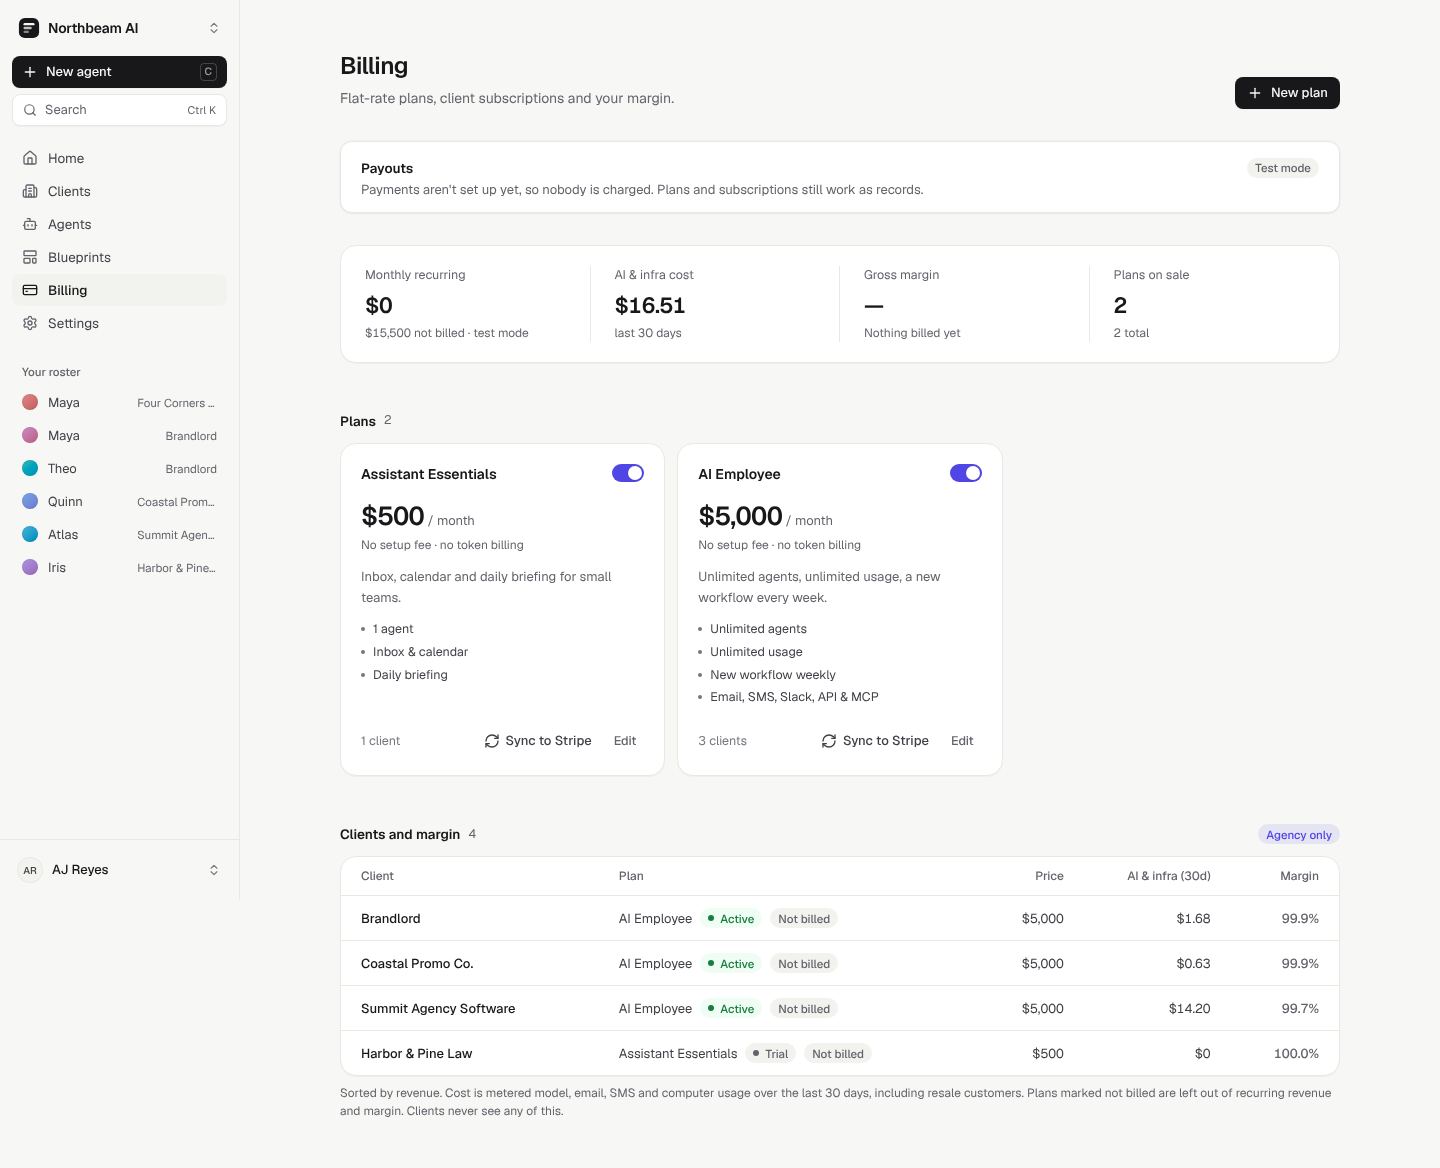
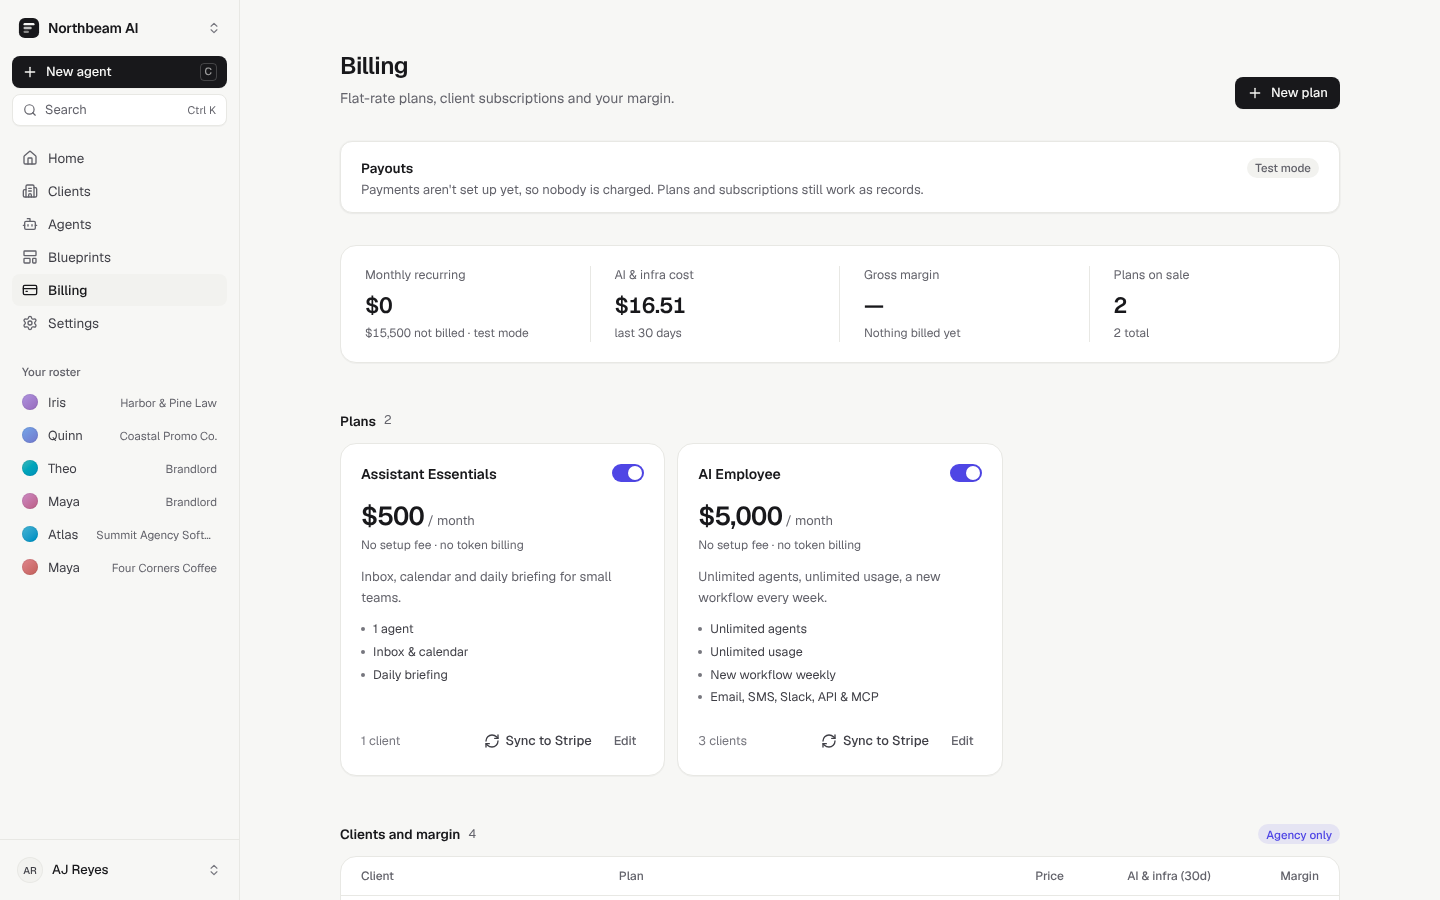
Studio round 4: invite emails really send; add workflow after hire; held first deliverable card with preview and Release now; stalled setup retry; billed-only MRR with paged margin table; mobile workflow rows; ⌘K finds approvals and deliverables
Claude-Session: https://claude.ai/code/session_01R829g3cx373VGQG4xJfwq5

diff --git a/src/app/p/[org]/requests/[id]/page.tsx b/src/app/p/[org]/requests/[id]/page.tsx
@@ -1,6 +1,7 @@
 import Link from "next/link";
 import { notFound } from "next/navigation";
 import { ArrowLeft } from "lucide-react";
+import { AgentOrb } from "@/components/ui/agent-orb";
 import { whenLabel } from "@/components/portal/deliverable-card";
 import { ChannelIcon } from "@/components/portal/icons";
 import { CHANNEL_LABEL } from "@/components/portal/lib";
@@ -30,6 +31,8 @@ export default async function RequestPage({
   const tz = p.org.timezone;
   const channel = CHANNEL_LABEL[r.channel] ?? r.channel;
   const replyHere = r.channel === "portal";
+  const first = r.messages[0];
+  const last = r.messages.at(-1);
   const note =
     r.channel === "email"
       ? `This conversation happened over email${r.who ? ` with ${r.who}` : ""}. Replies go through that inbox.`
@@ -40,55 +43,114 @@ export default async function RequestPage({
           : "This conversation came in through your connected tools.";
 
   return (
-    <div className="mx-auto w-full max-w-[1040px] *:max-w-[720px] px-4 pt-5 md:px-6 md:pt-8">
+    <div className="mx-auto w-full max-w-[1040px] px-4 pt-5 md:px-6 md:pt-8">
       <Link
         href={`/p/${slug}/requests`}
         className="-ml-2 inline-flex h-8 items-center gap-1.5 rounded-md px-2 text-[13px] text-ink-3 transition-colors hover:bg-surface-2 hover:text-ink"
       >
         <ArrowLeft className="size-4" aria-hidden /> Requests
       </Link>
-      <header className="mt-4 mb-8 animate-rise">
-        <h1 className="text-[24px] leading-tight font-semibold tracking-[-0.02em] text-ink text-balance md:text-[26px]">
-          {r.subject || `Conversation with ${r.agent.name}`}
-        </h1>
-        <p className="mt-2 flex flex-wrap items-center gap-1.5 text-[13px] text-ink-3">
-          <ChannelIcon channel={r.channel} className="text-ink-3" />
-          {channel}
-          <span aria-hidden className="text-ink-3">
-            ·
-          </span>
-          <Link
-            href={`/p/${slug}/team/${r.agent.id}`}
-            className="text-ink-2 hover:text-ink"
-          >
-            {r.agent.name}
-          </Link>
-          {r.who ? (
-            <>
+      <div className="mt-4 grid gap-10 md:grid-cols-[minmax(0,1fr)_220px] md:gap-12">
+        <div className="min-w-0">
+          <header className="mb-8 animate-rise">
+            <h1 className="text-[24px] leading-tight font-semibold tracking-[-0.02em] text-ink text-balance md:text-[26px]">
+              {r.subject || `Conversation with ${r.agent.name}`}
+            </h1>
+            {/* On desktop the same facts live in the side rail. */}
+            <p className="mt-2 flex flex-wrap items-center gap-1.5 text-[13px] text-ink-3 md:hidden">
+              <ChannelIcon channel={r.channel} className="text-ink-3" />
+              {channel}
               <span aria-hidden className="text-ink-3">
                 ·
-              </span>{" "}
-              {r.who}
-            </>
-          ) : null}
-        </p>
-      </header>
-      <Thread
-        slug={slug}
-        agent={r.agent}
-        conversationId={replyHere ? r.id : null}
-        canReply={replyHere && p.canAct}
-        youName={p.user.name ?? "You"}
-        messages={r.messages.map((m) => ({
-          id: m.id,
-          author: m.author,
-          body: m.body,
-          at: m.createdAt.toISOString(),
-          when: whenLabel(m.createdAt, tz),
-          authorName: m.authorName ?? (m.author === "contact" ? r.who : null),
-        }))}
-        replyNote={replyHere ? undefined : note}
-      />
+              </span>
+              <Link
+                href={`/p/${slug}/team/${r.agent.id}`}
+                className="text-ink-2 hover:text-ink"
+              >
+                {r.agent.name}
+              </Link>
+              {r.who ? (
+                <>
+                  <span aria-hidden className="text-ink-3">
+                    ·
+                  </span>{" "}
+                  {r.who}
+                </>
+              ) : null}
+            </p>
+          </header>
+          <Thread
+            slug={slug}
+            agent={r.agent}
+            conversationId={replyHere ? r.id : null}
+            canReply={replyHere && p.canAct}
+            youName={p.user.name ?? "You"}
+            messages={r.messages.map((m) => ({
+              id: m.id,
+              author: m.author,
+              body: m.body,
+              at: m.createdAt.toISOString(),
+              when: whenLabel(m.createdAt, tz),
+              authorName:
+                m.authorName ?? (m.author === "contact" ? r.who : null),
+            }))}
+            replyNote={replyHere ? undefined : note}
+          />
+        </div>
+
+        <aside className="hidden md:block" aria-label="About this request">
+          <dl className="sticky top-24 grid gap-y-5 text-[13px]">
+            <div>
+              <dt className="text-ink-3">With</dt>
+              <dd className="mt-1 flex min-w-0 items-center gap-2 text-ink-2">
+                <AgentOrb seed={r.agent.seed} name={r.agent.name} size={20} />
+                <Link
+                  href={`/p/${slug}/team/${r.agent.id}`}
+                  className="truncate font-medium hover:text-ink"
+                >
+                  {r.agent.name}
+                </Link>
+              </dd>
+              <dd className="mt-0.5 truncate text-[12.5px] text-ink-3">
+                {r.agent.role}
+              </dd>
+            </div>
+            <div>
+              <dt className="text-ink-3">Came in by</dt>
+              <dd className="mt-1 inline-flex items-center gap-1.5 text-ink-2">
+                <ChannelIcon channel={r.channel} className="text-ink-3" />{" "}
+                {channel}
+              </dd>
+            </div>
+            {r.who ? (
+              <div>
+                <dt className="text-ink-3">From</dt>
+                <dd className="mt-1 break-words text-ink-2">{r.who}</dd>
+              </div>
+            ) : null}
+            {first ? (
+              <div>
+                <dt className="text-ink-3">Started</dt>
+                <dd className="mt-1 text-ink-2">
+                  <time dateTime={first.createdAt.toISOString()}>
+                    {whenLabel(first.createdAt, tz)}
+                  </time>
+                </dd>
+              </div>
+            ) : null}
+            {last && last !== first ? (
+              <div>
+                <dt className="text-ink-3">Last message</dt>
+                <dd className="mt-1 text-ink-2">
+                  <time dateTime={last.createdAt.toISOString()}>
+                    {whenLabel(last.createdAt, tz)}
+                  </time>
+                </dd>
+              </div>
+            ) : null}
+          </dl>
+        </aside>
+      </div>
     </div>
   );
 }
